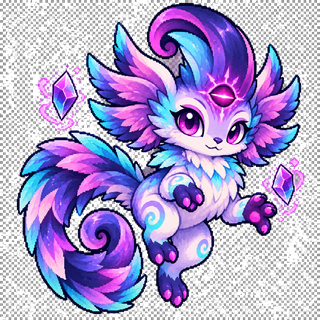
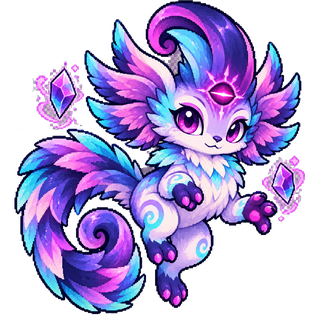
fix: Mentakarl+Drakarl mit eingebranntem Grau-Schachbrett sauber freistellen (cutout_checker)

diff --git a/tools/process_assets.py b/tools/process_assets.py
@@ -165,13 +165,39 @@ lena = fit(cutout_flood(Image.open(os.path.join(SRC, "lena.png")), tol=50), 360)
 lena.save(os.path.join(OUT, "pokemon", "12.png"))
 print("lena", lena.size)
 
-# Level-2-Kreaturen: hellen Hintergrund per Ecken-Flood-Fill freistellen (wie Lena),
+# Zwei Level-2-Bilder (Mentakarl id 27, Drakarl id 28) haben statt eines echten
+# Alphas ein eingebranntes graues "Transparenz-Schachbrett" (zwei Grautöne).
+# Ecken-Flood entfernt nur den einen Ton -> der andere bleibt als graue
+# Wolken-Flecken. Für diese IDs neutral-graue Flächen komplett wegfloodn.
+CHECKER_IDS = {27, 28}
+
+# Neutral-graue Flächen (beide Schachbrett-Töne) vom Rand her transparent machen.
+def cutout_checker(im, lo=100, hi=225):
+    im = im.convert("RGBA"); px = im.load(); w, h = im.size
+    from collections import deque
+    seen = [[False] * w for _ in range(h)]; q = deque()
+    def gray(p):
+        r, g, b, _ = p; lum = (r + g + b) / 3
+        return abs(r - g) < 20 and abs(g - b) < 20 and lo <= lum <= hi
+    for cx, cy in [(0, 0), (w-1, 0), (0, h-1), (w-1, h-1)]:
+        if not seen[cy][cx]: q.append((cx, cy)); seen[cy][cx] = True
+    while q:
+        x, y = q.popleft(); p = px[x, y]
+        if not gray(p): continue
+        px[x, y] = (p[0], p[1], p[2], 0)
+        for nx, ny in ((x+1, y), (x-1, y), (x, y+1), (x, y-1)):
+            if 0 <= nx < w and 0 <= ny < h and not seen[ny][nx]:
+                seen[ny][nx] = True; q.append((nx, ny))
+    return trim(im)
+
+# Level-2-Kreaturen freistellen (Schachbrett-Fall vs. solider Hintergrund),
 # dann trimmen + skalieren wie die Level-1-Kreaturen.
 for i, name in enumerate(CREATURES2, start=21):
-    im = cutout_flood(Image.open(os.path.join(SRC, name + ".png")), tol=50)
-    im = fit(im, 320)
+    raw = Image.open(os.path.join(SRC, name + ".png")).convert("RGBA")
+    cut = cutout_checker(raw) if i in CHECKER_IDS else cutout_flood(raw, tol=50)
+    im = fit(cut, 320)
     im.save(os.path.join(OUT, "pokemon", f"{i:02d}.png"))
-    print("pokemon L2", i, name, im.size)
+    print("pokemon L2", i, name, "checker" if i in CHECKER_IDS else "flood", im.size)
 
 # Player-Spritesheet: 2 Spalten x 4 Reihen.
 # Jeden Frame EINZELN freischneiden und dann zentriert + fußbündig auf eine
